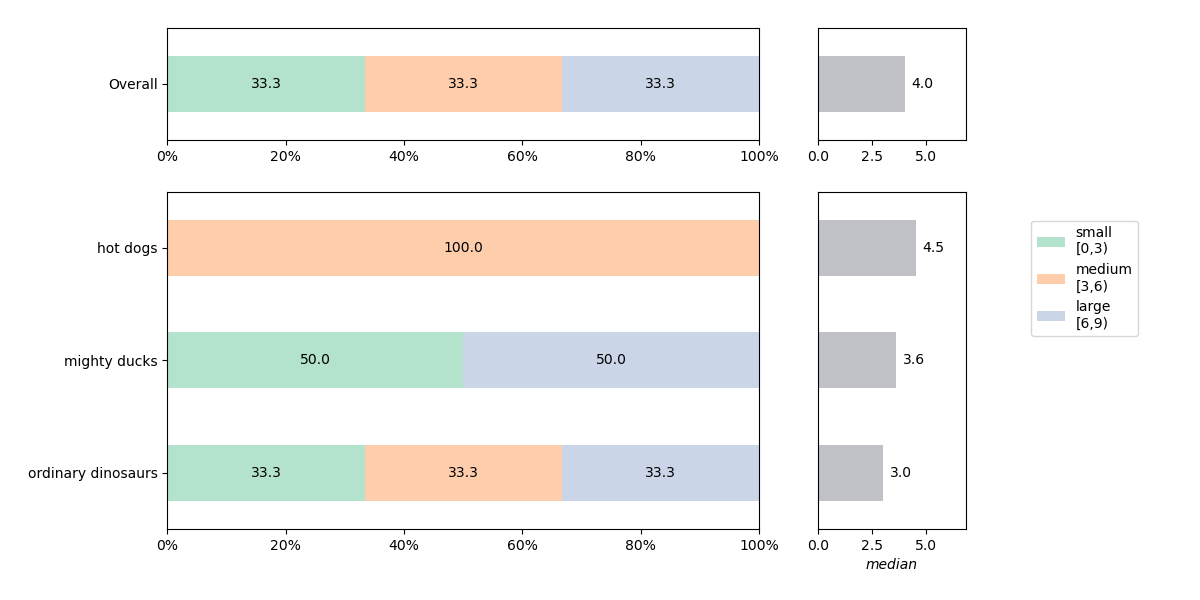
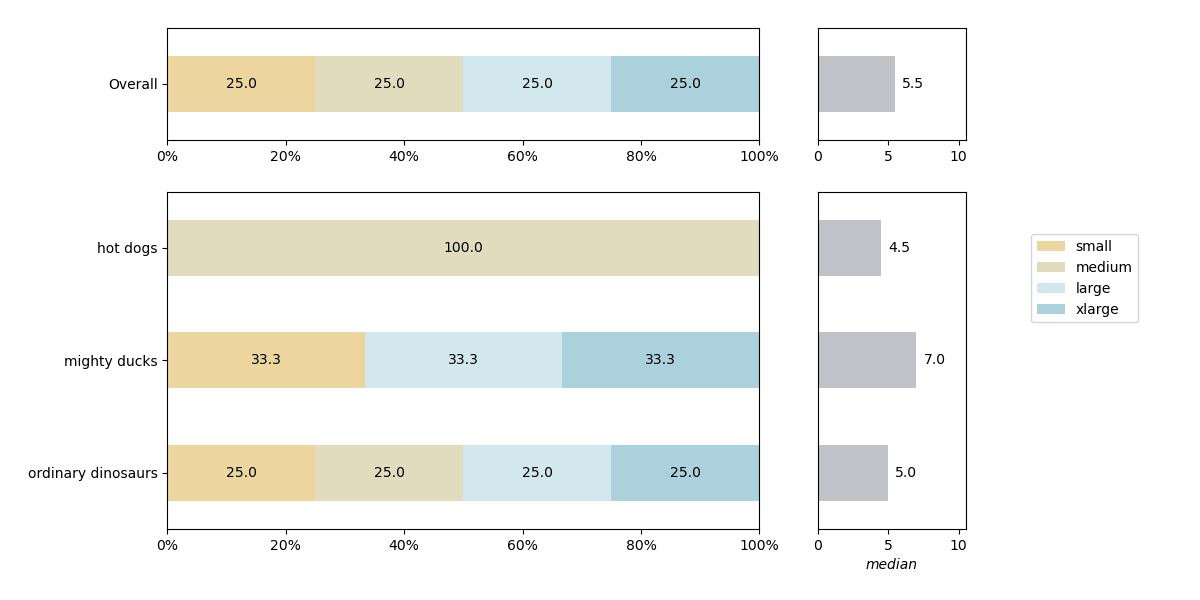
reimplemented default coloring

diff --git a/barkeep/utils.py b/barkeep/utils.py
@@ -1,4 +1,9 @@
+import math
+import matplotlib
+import matplotlib.pyplot as plt
+
 from collections.abc import Mapping
+from typing import Optional, Tuple
 
 
 def get_longest_item(array: list) -> str:
@@ -23,3 +28,95 @@ class MappableDataClass(Mapping):
 
     def __len__(self):
         return len(self.__dict__)
+
+
+def get_cmap_colors(length: Optional[int] = None,
+                    n_colors_in_cmap: Optional[int] = None,
+                    indices_to_select: Optional[list] = None,
+                    name='tab10') -> list:
+    """Get an array of colors for coloring bar segments.
+
+    See https://matplotlib.org/3.1.0/tutorials/colors/colormaps.html
+    for available colormaps.
+
+    Pass only length parameter to utilize the full cmap.
+    When choosing a discrete (i.e. not continuous) map and you want to select
+    colors instead of using of the whole range, pass the total number of colors
+    in the cmap as ``n_colors_in_cmap``, and pass a list of which indices to
+    select via ``select_cats``.
+
+    Args:
+        length (int): Number of colors to return.
+        n_colors_in_cmap (int, optional): Number of colors in the map.
+        indices_to_select (list, optional): Indices of colors to select.
+        name (str, optional): Name of matplotlib colormap. Defaults to 'tab10'.
+
+    Returns:
+        list: An array of length `length`
+    """
+
+    if indices_to_select is None:
+        indices_to_select = range(length)
+    else:
+        length = max(indices_to_select) + 1
+
+    if n_colors_in_cmap is None:
+        norm = plt.Normalize(vmin=0, vmax=length - 1)
+    else:
+        norm = plt.Normalize(vmin=0, vmax=n_colors_in_cmap - 1)
+
+    cmap = matplotlib.colormaps[name]
+
+    result = list(
+        map(lambda x: cmap(norm(x)), indices_to_select)
+    )
+
+    # Round each tuple item in result list to 4 decimal places.
+    result = [tuple(map(lambda x: round(x, 4), tup)) for tup in result]
+
+    return result
+
+
+def normalize_rgb(rgb: Tuple[int, int, int],
+                  alpha: Optional[float] = None) -> Tuple[float]:
+    """Normalize 255-based RGB scores to values between 0 and 1.
+
+    Matplotlib expects colors in this format.
+    Optional fourth element in the tuple indicates opacity.
+
+    Args:
+        rgb (tuple): Tuple indicating rgb scores between 0 and 255.
+        alpha (float, optional): Reduces opacity. Defaults to None.
+
+    Returns:
+        tuple: Normalized RGB scores with optional opacity.
+    """
+
+    color = tuple(
+        map(lambda x: round(x/255, 4), rgb)
+    )
+
+    if alpha:
+        color = (*color, alpha)
+
+    return color
+
+
+def select_from_center(n: int, length: int) -> list:
+    """Given an array of ``length``, pick `n` elements from its center.
+
+    Args:
+        n (int): Number of items to select.
+        length (int): Length of the array to select from
+
+    Returns:
+        list: Indices of items to select
+    """
+
+    array = list(range(length))
+    dif = length - n
+
+    if dif < 0:
+        raise ValueError('`n` must be <= `length`')
+
+    return array[math.floor(dif/2):]

diff --git a/barkeep/core.py b/barkeep/core.py
@@ -1,3 +1,4 @@
+import hydra
 import matplotlib
 import matplotlib.pyplot as plt
 import pandas as pd
@@ -8,9 +9,13 @@ from typing import Optional, Union
 from barkeep.axparse import LegendOutAxparser, AxMap
 from barkeep.aggregate import Aggregator
 from barkeep.grid import GridConfigFactory, get_grid_recipe
-from barkeep.colors import get_cmap_colors
+from barkeep.utils import select_from_center
 from barkeep.components import percent, average, legend
 from barkeep.datasets import test_df
+
+
+with hydra.initialize(config_path="./conf", version_base=None):
+    cfg = hydra.compose(config_name="config", overrides=['style=ice'])
 
 
 class GridPlot:
@@ -81,9 +86,7 @@ def plot(df: pd.DataFrame, *,
          average_type: str = 'mean',
          overall: bool = True,
          save_path: Union[str, pathlib.Path] = None,
-         cmap: str = 'Pastel2',
-         n_colors_in_cmap: Optional[int] = 8,
-         colors: list = None,
+         colors: list = cfg.colors.palette,
          index_ascending: bool = False,
          order_pct_by: str = 'index',
          order_pct_ascending: bool = True):
@@ -111,17 +114,12 @@ def plot(df: pd.DataFrame, *,
                   figure=parser.get_figure(),
                   legend_ax=parser.get_legend_ax())
 
-    if colors is not None:
-        gp.show(save_path, color=colors)
+    # Get colors
+    color_indices = select_from_center(agg.n_count_categories,
+                                       len(colors))
+    selected_colors = [colors[i] for i in color_indices]
 
-    elif n_colors_in_cmap is not None:
-        colors = get_cmap_colors(length=gp.aggregator.n_count_categories,
-                                 n_colors_in_cmap=n_colors_in_cmap,
-                                 name=cmap)
-        gp.show(save_path, color=colors)
-
-    else:
-        gp.show(save_path, cmap=cmap)
+    gp.show(save_path, color=selected_colors)
 
 
 def main():

diff --git a/barkeep/datasets.py b/barkeep/datasets.py
@@ -6,29 +6,18 @@ test_df = pd.DataFrame({
     'group': [
         'mighty ducks', 'mighty ducks', 'ordinary dinosaurs',
         'ordinary dinosaurs', 'hot dogs', 'hot dogs',
+        'mighty ducks', 'ordinary dinosaurs', 'mighty ducks',
         'mighty ducks', 'ordinary dinosaurs', 'mighty ducks'
     ],
-    'metric': [0, 1.23456789, 2, 3, 4, 5, 6, 7, 8]
+    'metric': list(range(12))
 })
 
 test_df['bins'] = pd.cut(test_df['metric'],
-                         np.arange(0, 10, 3),
+                         np.arange(0, 13, 3),
                          right=False,
                          labels=[
-                            'small\n[0,3)',
-                            'medium\n[3,6)',
-                            'large\n[6,9)'])
+                            'small',
+                            'medium',
+                            'large',
+                            'xlarge'])
 
-
-columns = pd.CategoricalIndex(['small', 'medium', 'large'],
-                              ordered=True,
-                              categories=['small', 'medium', 'large'])
-
-test_agg = pd.DataFrame([
-    (0.0, 2 / 3, 1 / 3),
-    (1 / 3, 1 / 3, 1 / 3),
-    (2 / 3, 0.0, 1 / 3),
-], index=list('cba'), columns=columns)
-
-test_agg.index.name = 'group'
-test_agg.columns.name = 'bins'

diff --git a/barkeep/components/average.py b/barkeep/components/average.py
@@ -11,7 +11,7 @@ def plot(df: pd.DataFrame,
          ax: matplotlib.axes.Axes,
          x_lim: float) -> None:
 
-    df.plot.barh(ax=ax, color=cfg.style.average.color)
+    df.plot.barh(ax=ax, color=cfg.style.colors.grey)
     ax.set_xlim(0, x_lim)
     ax.set_yticks([])
     ax.set_ylabel('')

diff --git a/barkeep/components/percent.py b/barkeep/components/percent.py
@@ -45,12 +45,3 @@ def plot(df: pd.DataFrame,
     ax.xaxis.set_major_formatter(ticker.PercentFormatter(xmax=1))
 
     ax.set_xlim(0, 1)
-
-
-if __name__ == '__main__':
-
-    from barkeep import test_agg
-
-    plot(test_agg)
-
-    plt.show()
